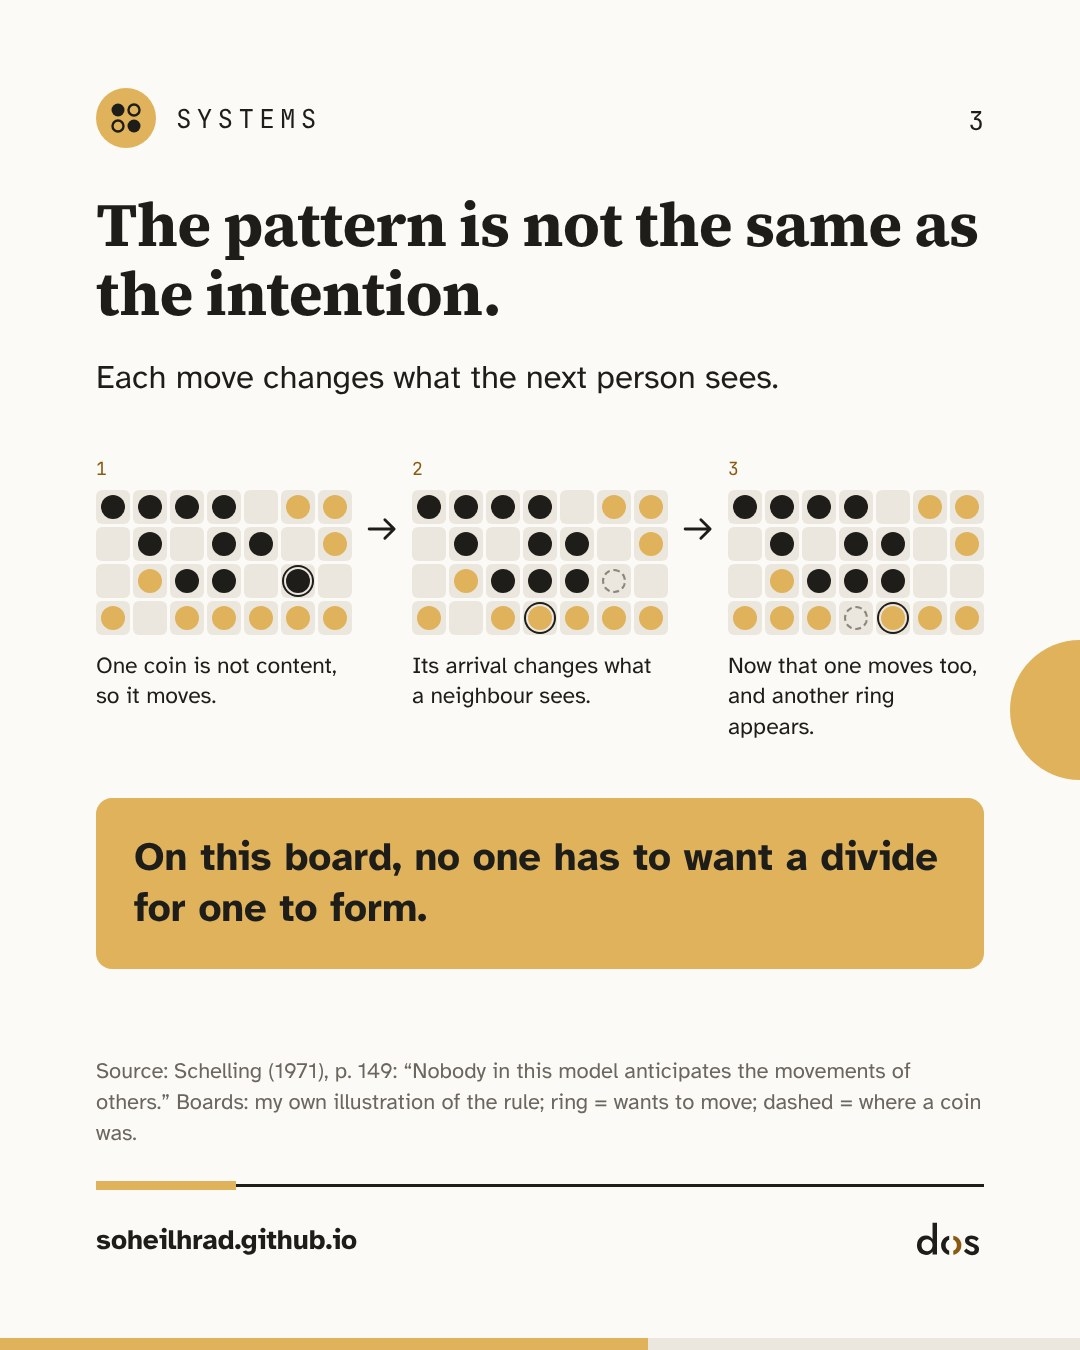
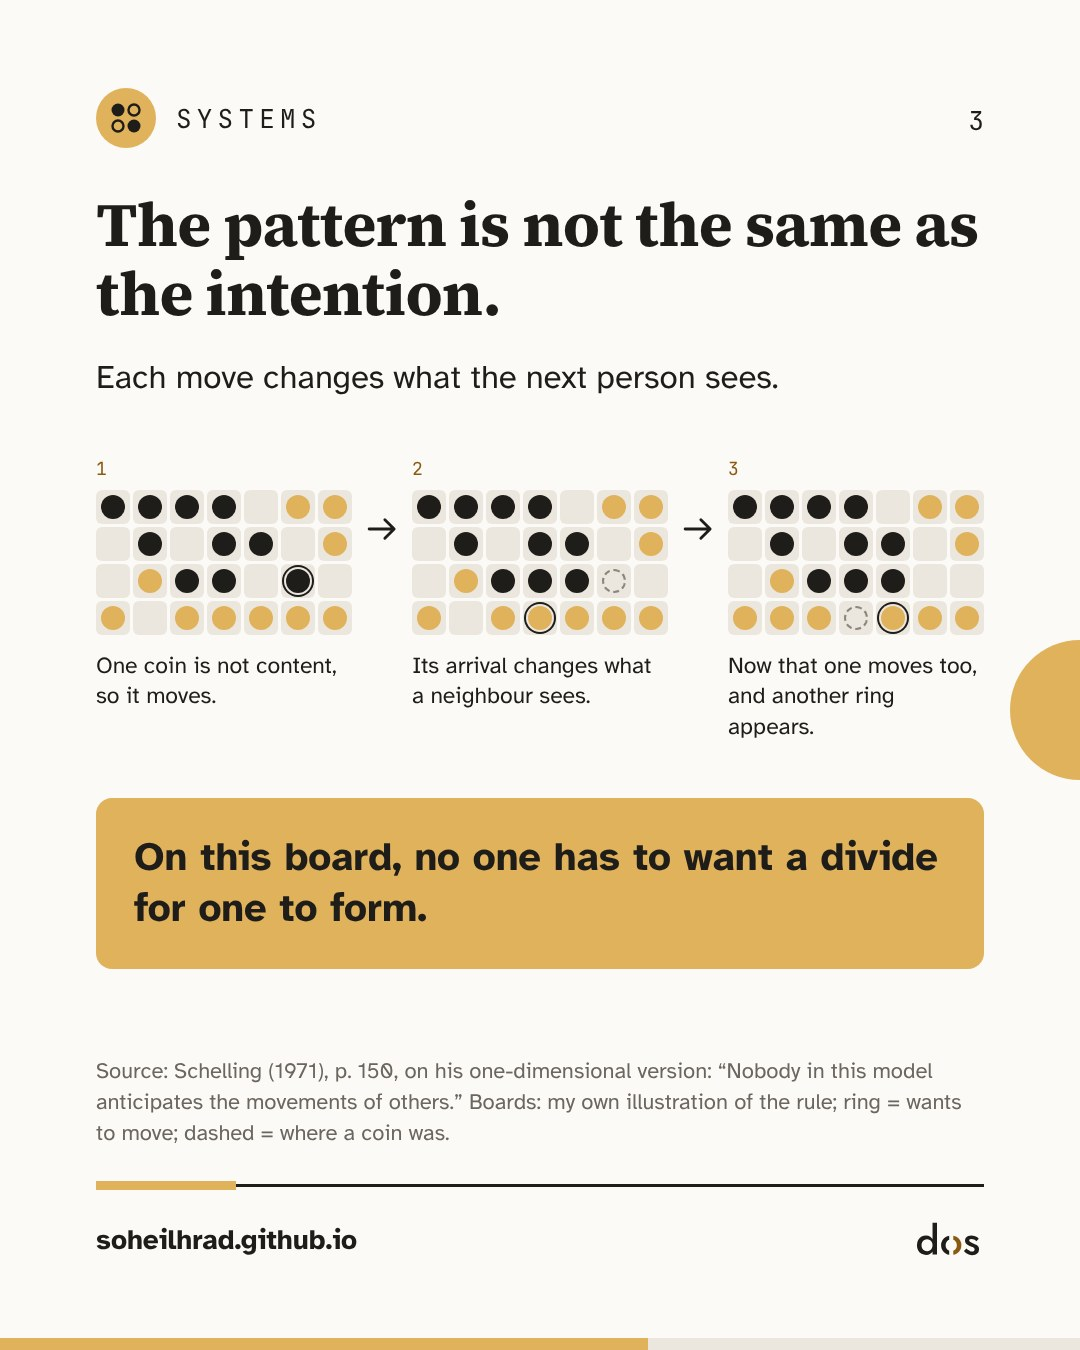
Schelling note: correct the page for the 'nobody anticipates' quote (p. 150, one-dimensional version)
Re-read against the paper before publishing: the sentence is on p. 150
and comes from Schelling's one-dimensional version, not p. 149 of the
board version. Slide 3's small print, the English and Persian source
lines and the lead-in sentence now say so.

Claude-Session: https://claude.ai/code/session_01PL3C4wNgfD4zTrRayGWWdK

Changed region(s): [[0.0917, 0.7778, 0.8861, 0.84]]

diff --git a/fa/_posts/2026-10-25-schelling-segregation.md b/fa/_posts/2026-10-25-schelling-segregation.md
@@ -32,7 +32,7 @@ slides:
 
 پس هر سکه میپذیرد که تا نیمی از همسایههایش با او فرق داشته باشند. با این حال، در یک مثال حلشده، آدمها سر از محلههایی درمیآورند که بسیار بیشتر از ترجیحهای پدیدآورندهٔ آنها تفکیکشده است.
 
-این چگونه پیش میآید؟ به گفتهٔ شلینگ (ترجمه): «در این مدل هیچکس حرکت دیگران را پیشبینی نمیکند.» هر جابهجایی محلهٔ کسِ دیگری را عوض میکند و همین میتواند جابهجایی بعدی را به راه بیندازد. چیزی که برایم ماندگار است، عادی بودن هر گام است. یک سکه جابهجا میشود چون کمی احساس غریبگی میکند، و جابهجاییاش چیزی را که همسایههایش میبینند عوض میکند، پس یک نفر دیگر جابهجا میشود. هیچکس دو دسته شدن را برنامهریزی نمیکند، و لازم هم نیست.
+این چگونه پیش میآید؟ به گفتهٔ شلینگ دربارهٔ نسخهٔ یکبعدی مدلش (ترجمه): «در این مدل هیچکس حرکت دیگران را پیشبینی نمیکند.» هر جابهجایی محلهٔ کسِ دیگری را عوض میکند و همین میتواند جابهجایی بعدی را به راه بیندازد. چیزی که برایم ماندگار است، عادی بودن هر گام است. یک سکه جابهجا میشود چون کمی احساس غریبگی میکند، و جابهجاییاش چیزی را که همسایههایش میبینند عوض میکند، پس یک نفر دیگر جابهجا میشود. هیچکس دو دسته شدن را برنامهریزی نمیکند، و لازم هم نیست.
 
 ## درسی که پشت این مدل است
 
@@ -71,5 +71,5 @@ slides:
 
 منابع (متن هر دو به انگلیسی است):
 
-1. مقالهٔ اصلی شلینگ، سال ۱۹۷۱. قاعده: صفحههای ۱۵۴ تا ۱۵۷. جملهٔ «هیچکس حرکت دیگران را پیشبینی نمیکند»: صفحهٔ ۱۴۹. مثال حلشده (میانگین محلهٔ هر فرد، با احتساب خودش، ۹۰ درصد همرنگ خودش است): صفحهٔ ۱۵۸. چکیده: صفحهٔ ۱۴۳. نقلقولهای بالا از انگلیسی ترجمه شدهاند.<br><bdi dir="ltr">Schelling, T. C. (1971). Dynamic Models of Segregation. Journal of Mathematical Sociology, 1, 143–186.</bdi><br><bdi dir="ltr">"Nobody in this model anticipates the movements of others." (p. 149)</bdi><br><bdi dir="ltr">"Inferences about individual motives can usually not be drawn from aggregate patterns." (abstract)</bdi>
+1. مقالهٔ اصلی شلینگ، سال ۱۹۷۱. قاعده: صفحههای ۱۵۴ تا ۱۵۷. جملهٔ «هیچکس حرکت دیگران را پیشبینی نمیکند» (نسخهٔ یکبعدی): صفحهٔ ۱۵۰. مثال حلشده (میانگین محلهٔ هر فرد، با احتساب خودش، ۹۰ درصد همرنگ خودش است): صفحهٔ ۱۵۸. چکیده: صفحهٔ ۱۴۳. نقلقولهای بالا از انگلیسی ترجمه شدهاند.<br><bdi dir="ltr">Schelling, T. C. (1971). Dynamic Models of Segregation. Journal of Mathematical Sociology, 1, 143–186.</bdi><br><bdi dir="ltr">"Nobody in this model anticipates the movements of others." (p. 150)</bdi><br><bdi dir="ltr">"Inferences about individual motives can usually not be drawn from aggregate patterns." (abstract)</bdi>
 2. [مدل Segregation در NetLogo](https://ccl.netlogo.org/netlogo/models/Segregation).<br><bdi dir="ltr">Wilensky, U. (1997). NetLogo Segregation model. Center for Connected Learning and Computer-Based Modeling, Northwestern University.</bdi>

diff --git a/_posts/2026-10-25-schelling-segregation.md b/_posts/2026-10-25-schelling-segregation.md
@@ -29,7 +29,7 @@ In 1971, Thomas Schelling published a model of how segregation can arise from in
 
 So every coin accepts up to half of its neighbours being different. Yet in one worked example, people end up in neighbourhoods that are far more segregated than the preferences that produced them.
 
-How does that happen? In Schelling's words: "Nobody in this model anticipates the movements of others." Each move changes the neighbourhood of someone else, and that can set off the next move. What stays with me is how ordinary each step is. One coin moves because it feels a little out of place, and its move changes what its neighbours see, so someone else moves. No one plans a divide, and no one needs to.
+How does that happen? In Schelling's words, from his one-dimensional version of the model: "Nobody in this model anticipates the movements of others." Each move changes the neighbourhood of someone else, and that can set off the next move. What stays with me is how ordinary each step is. One coin moves because it feels a little out of place, and its move changes what its neighbours see, so someone else moves. No one plans a divide, and no one needs to.
 
 ## The lesson behind the model
 
@@ -68,5 +68,5 @@ The boards on slides 1 and 2 are one run of my own simulation of the rule (a 12 
 
 Sources:
 
-- Schelling, T. C. (1971). Dynamic Models of Segregation. *Journal of Mathematical Sociology*, 1, 143–186. The rule: pp. 154–157. The "nobody anticipates" sentence: p. 149. The worked example (the average person's neighbourhood is 90% their own colour, counting themselves): p. 158. The abstract: p. 143.
+- Schelling, T. C. (1971). Dynamic Models of Segregation. *Journal of Mathematical Sociology*, 1, 143–186. The rule: pp. 154–157. The "nobody anticipates" sentence (his one-dimensional version): p. 150. The worked example (the average person's neighbourhood is 90% their own colour, counting themselves): p. 158. The abstract: p. 143.
 - Wilensky, U. (1997). [NetLogo Segregation model](https://ccl.netlogo.org/netlogo/models/Segregation). Center for Connected Learning and Computer-Based Modeling, Northwestern University.
